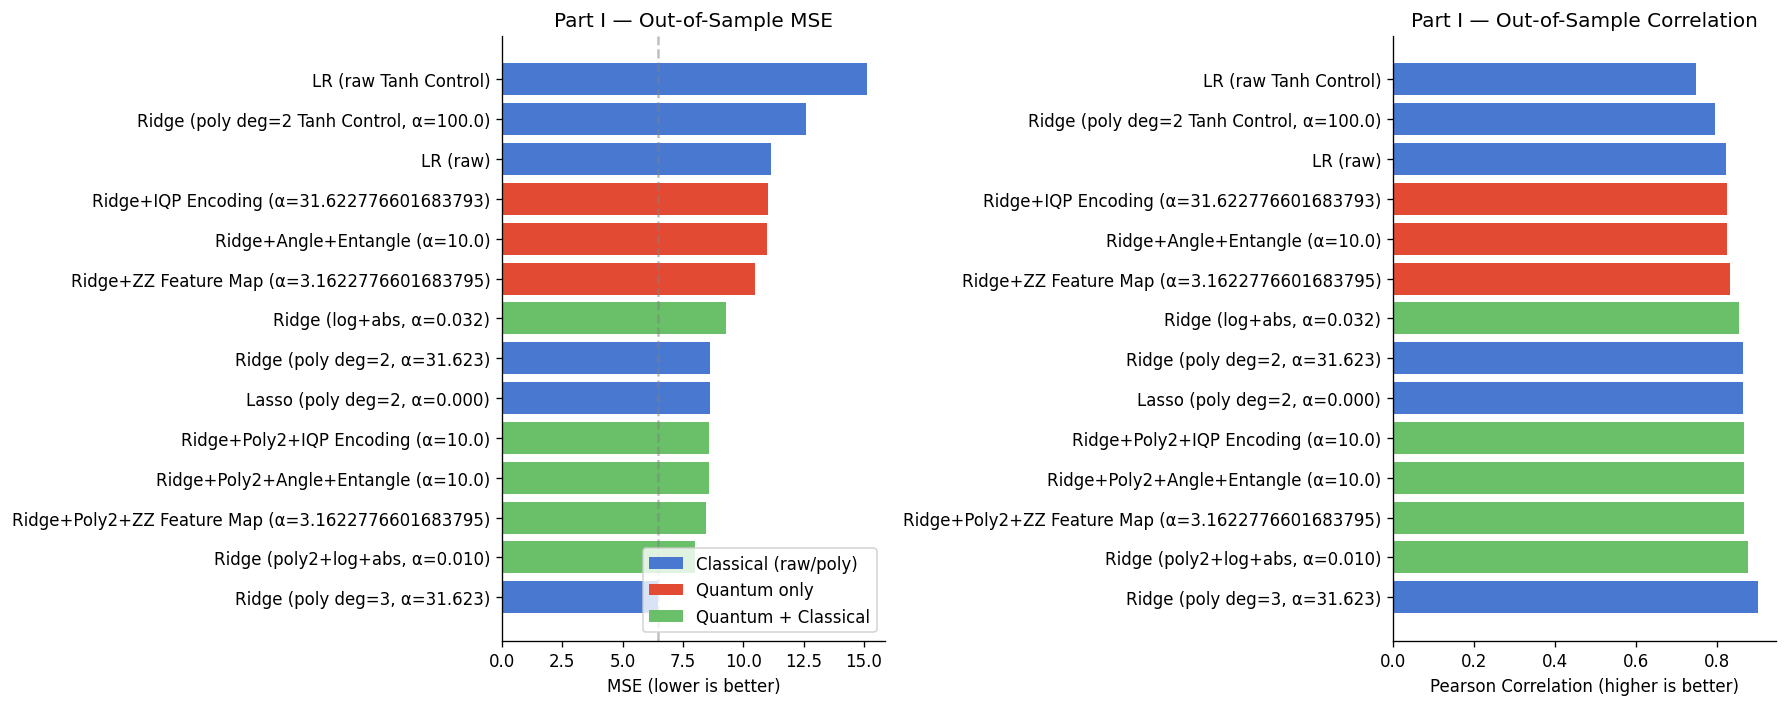
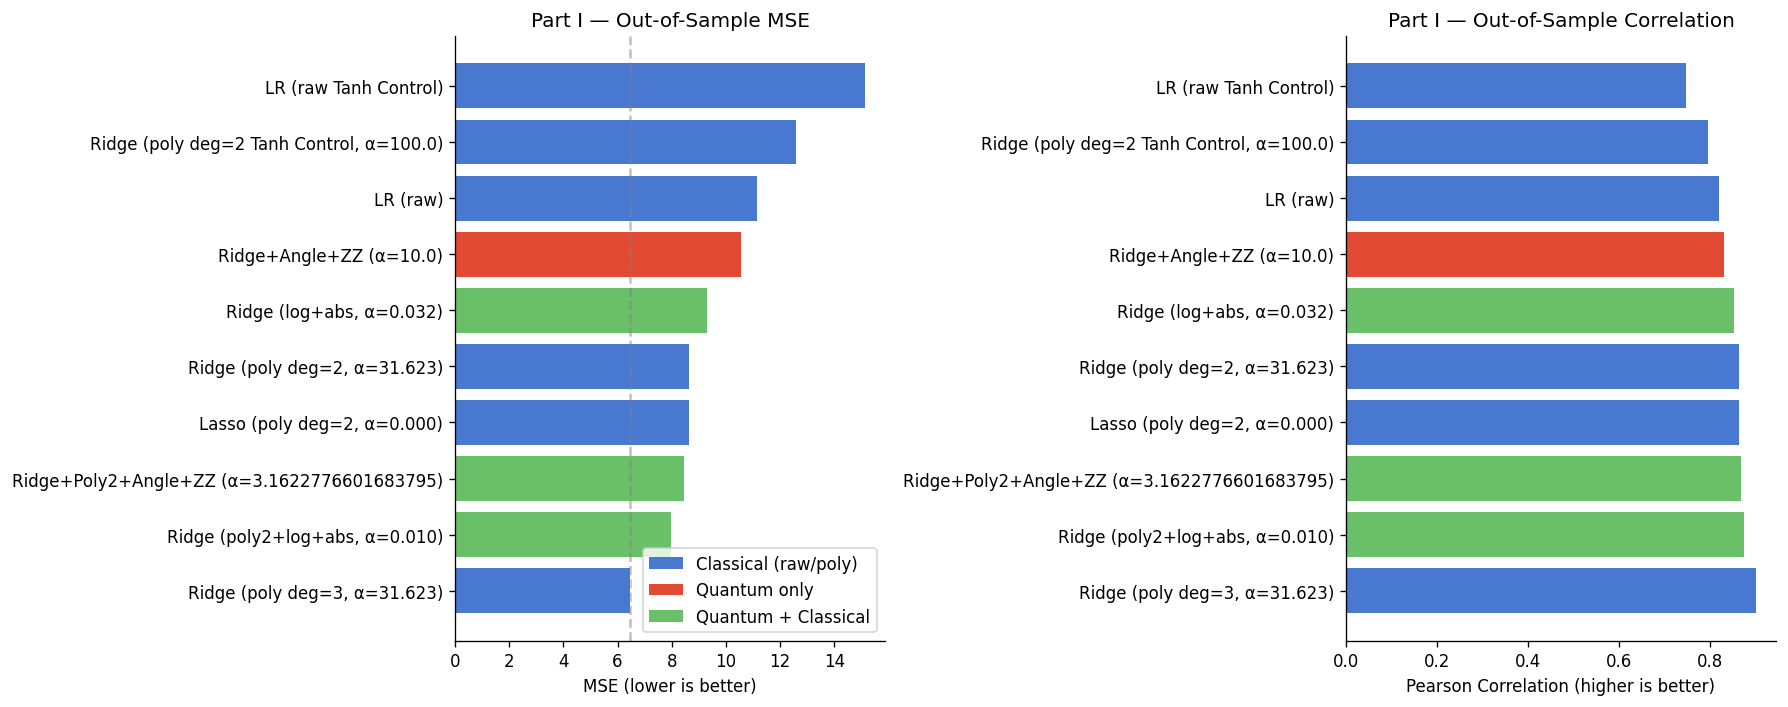
full sim 7:53am

diff --git a/QFA_Solution2.py b/QFA_Solution2.py
@@ -296,20 +296,14 @@ print(df_cl.sort_values("MSE"))
 
 N_QUBITS = 4
 
-# ── Circuit 1: Angle Encoding + BasicEntanglerLayers ─────────────────────
+# ── Circuit: Angle Encoding + ZZ Entanglement ───────────────────────────
 @qml.qnode(dev4, interface="numpy")
 def angle_circuit(x):
-    qml.AngleEmbedding(x, wires=range(N_QUBITS), rotation="Y")
-    weights = np.zeros((2, N_QUBITS))
-    qml.BasicEntanglerLayers(weights, wires=range(N_QUBITS), rotation=qml.RY)
-    single = [qml.expval(qml.PauliZ(i)) for i in range(N_QUBITS)]
-    pairs  = [qml.expval(qml.PauliZ(i) @ qml.PauliZ(j))
-              for i in range(N_QUBITS) for j in range(i+1, N_QUBITS)]
-    return single + pairs
-
-# ── Circuit 2: ZZ Feature Map (Havlíček et al. 2019) ────────────────────
-@qml.qnode(dev4, interface="numpy")
-def zz_circuit(x):
+    # Step 1: Angle embedding — Ry then Rz per qubit, no entanglement
+    for i in range(N_QUBITS):
+        qml.RY(x[i], wires=i)
+        qml.RZ(x[i], wires=i)
+    # Step 2: ZZ feature map in series (entanglement comes from here)
     for rep in range(2):
         for i in range(N_QUBITS):
             qml.Hadamard(wires=i)
@@ -324,63 +318,11 @@ def zz_circuit(x):
               for i in range(N_QUBITS) for j in range(i+1, N_QUBITS)]
     return single + pairs
 
-# ── Circuit 3: IQP Encoding ──────────────────────────────────────────────
-@qml.qnode(dev4, interface="numpy")
-def iqp_circuit(x):
-    qml.IQPEmbedding(x, wires=range(N_QUBITS), n_repeats=2)
-    single = [qml.expval(qml.PauliZ(i)) for i in range(N_QUBITS)]
-    pairs  = [qml.expval(qml.PauliZ(i) @ qml.PauliZ(j))
-              for i in range(N_QUBITS) for j in range(i+1, N_QUBITS)]
-    return single + pairs
-
 # ── Quantum Resource Metrics ─────────────────────────────────────────────
-print("=== Quantum Resource Summary ===")
-for name, circ in [("Angle+Entangle", angle_circuit), ("ZZ Feature Map", zz_circuit), ("IQP Encoding", iqp_circuit)]:
-    specs = qml.specs(circ)(X_train_q[0])
-    r = specs["resources"]
-    print(f"  {name:20s}  qubits={r.num_wires}  depth={r.depth}  gates={r.num_gates}  output_features=10")
-
-# ── Draw one circuit ─────────────────────────────────────────────────────
-print("\nZZ Feature Map circuit:")
-print(qml.draw(zz_circuit)(X_train_q[0]))
-
-
-# ── Circuit 4: Spec Circuit (Notes Algorithm — RY-RZ + ZZ phase encoding) ──
-def phi_single(x_row):
-    """Per-feature transformation from spec notes:
-    phi1 = x1 (already z-scored via preprocessing)
-    phi2 = sign(x2) * log(1+|x2|)  -- captures Regime 2 log nonlinearity
-    phi3 = x3, phi4 = x4 (pass-through)
-    """
-    phi = x_row.copy().astype(float)
-    phi[1] = np.sign(x_row[1]) * np.log1p(np.abs(x_row[1]))
-    return phi
-
-@qml.qnode(dev4, interface="numpy")
-def spec_circuit(phi_row):
-    """Notes algorithm: B(x)=RY+RZ block, A(x)=single-Z phases + IsingZZ on pairs (0,1) and (0,2).
-    Returns 5 quantum features: [<Z0>, <Z1>, <Z2>, <Z0Z1>, <Z0Z2>]
-    """
-    # B(x): single-feature nonlinearity -- RY then RZ on every qubit
-    for i in range(N_QUBITS):
-        qml.RY(phi_row[i], wires=i)
-        qml.RZ(phi_row[i], wires=i)
-    # A(x): single-qubit Z-phase terms
-    for i in range(N_QUBITS):
-        qml.RZ(2.0 * phi_row[i], wires=i)
-    # A(x): pairwise ZZ interactions -- only pairs (0,1) and (0,2)
-    qml.IsingZZ(phi_row[0] * phi_row[1], wires=[0, 1])
-    qml.IsingZZ(phi_row[0] * phi_row[2], wires=[0, 2])
-    return [
-        qml.expval(qml.PauliZ(0)),
-        qml.expval(qml.PauliZ(1)),
-        qml.expval(qml.PauliZ(2)),
-        qml.expval(qml.PauliZ(0) @ qml.PauliZ(1)),
-        qml.expval(qml.PauliZ(0) @ qml.PauliZ(2)),
-    ]
-
-print("\nSpec Circuit:")
-print(qml.draw(spec_circuit)(phi_single(X_train_q[0])))
+specs = qml.specs(angle_circuit)(X_train_q[0])
+r = specs["resources"]
+print(f"Angle+ZZ  qubits={r.num_wires}  depth={r.depth}  gates={r.num_gates}  output_features=10")
+print(qml.draw(angle_circuit)(X_train_q[0]))
 
 
 # In[ ]:
@@ -398,21 +340,7 @@ def extract_q_features(circuit_fn, X, label=""):
 print("Extracting quantum features (full 10k train + 10k test)...")
 Q_tr_angle = extract_q_features(angle_circuit, X_train_q, "Angle train")
 Q_te_angle = extract_q_features(angle_circuit, X_test_q,  "Angle test ")
-Q_tr_zz    = extract_q_features(zz_circuit,   X_train_q, "ZZ    train")
-Q_te_zz    = extract_q_features(zz_circuit,   X_test_q,  "ZZ    test ")
-Q_tr_iqp   = extract_q_features(iqp_circuit,  X_train_q, "IQP   train")
-Q_te_iqp   = extract_q_features(iqp_circuit,  X_test_q,  "IQP   test ")
-
 print(f"\nFeature shapes: {Q_tr_angle.shape}  (N_samples × 10 quantum features)")
-
-
-# Spec circuit: apply phi transform (log-signed x2) then extract 5 quantum features
-print("\nExtracting Spec circuit features...")
-X_train_phi = np.array([phi_single(x) for x in X_train_q])
-X_test_phi  = np.array([phi_single(x) for x in X_test_q])
-Q_tr_spec = extract_q_features(spec_circuit, X_train_phi, "Spec   train")
-Q_te_spec = extract_q_features(spec_circuit, X_test_phi,  "Spec   test ")
-print(f"Spec feature shapes: {Q_tr_spec.shape}  (N_samples x 5 quantum features)")
 
 
 # ### 2.5 Results — Synthetic Task
@@ -440,16 +368,12 @@ def augment_and_fit(X_tr_cl, X_te_cl, Q_tr, Q_te, y_tr, label):
     ridge, alpha = tune_ridge(Xaug_tr, y_tr)
     return ridge.predict(Xaug_te), alpha
 
-for name, Q_tr, Q_te in [("Angle+Entangle", Q_tr_angle, Q_te_angle),
-                           ("ZZ Feature Map", Q_tr_zz,   Q_te_zz),
-                           ("IQP Encoding",   Q_tr_iqp,  Q_te_iqp)]:
+for name, Q_tr, Q_te in [("Angle+ZZ", Q_tr_angle, Q_te_angle)]:
     preds, alpha = augment_and_fit(X_train_s, X_test_s, Q_tr, Q_te, y_train, name)
     results_p1.append(evaluate(y_test, preds, f"Ridge+{name} (α={alpha})"))
 
 # Poly2 + Quantum
-for name, Q_tr, Q_te in [("Angle+Entangle", Q_tr_angle, Q_te_angle),
-                           ("ZZ Feature Map", Q_tr_zz,   Q_te_zz),
-                           ("IQP Encoding",   Q_tr_iqp,  Q_te_iqp)]:
+for name, Q_tr, Q_te in [("Angle+ZZ", Q_tr_angle, Q_te_angle)]:
     preds, alpha = augment_and_fit(Xtr_p2, Xte_p2, Q_tr, Q_te, y_train, name)
     results_p1.append(evaluate(y_test, preds, f"Ridge+Poly2+{name} (α={alpha})"))
 
@@ -464,9 +388,7 @@ best_models = df_all.sort_values("MSE").head(6)["Model"].tolist()
 regime_rows = []
 all_preds = {}
 # Re-generate predictions for top models
-for name, Q_tr, Q_te in [("Angle+Entangle", Q_tr_angle, Q_te_angle),
-                           ("ZZ Feature Map", Q_tr_zz,   Q_te_zz),
-                           ("IQP Encoding",   Q_tr_iqp,  Q_te_iqp)]:
+for name, Q_tr, Q_te in [("Angle+ZZ", Q_tr_angle, Q_te_angle)]:
     Xaug_tr = StandardScaler().fit_transform(np.hstack([Xtr_p2, Q_tr]))
     Xaug_te = StandardScaler().fit(np.hstack([Xtr_p2, Q_tr])).transform(np.hstack([Xte_p2, Q_te]))
     sc2 = StandardScaler()
@@ -565,28 +487,6 @@ axes[0].legend(handles=legend_elements, loc='lower right')
 plt.tight_layout(); plt.savefig("part1_results.png", bbox_inches='tight'); plt.show()
 
 
-# ── Spec Circuit Results ──────────────────────────────────────────────────
-print("\n=== Spec Circuit Augmented Results ===")
-# Raw + Spec
-preds_spec_raw, alpha_spec_raw = augment_and_fit(X_train_s, X_test_s, Q_tr_spec, Q_te_spec, y_train, "Spec")
-results_p1.append(evaluate(y_test, preds_spec_raw, f"Ridge+Spec (alpha={alpha_spec_raw})"))
-
-# Poly2 + Spec
-preds_spec_p2, alpha_spec_p2 = augment_and_fit(Xtr_p2, Xte_p2, Q_tr_spec, Q_te_spec, y_train, "Spec")
-results_p1.append(evaluate(y_test, preds_spec_p2, f"Ridge+Poly2+Spec (alpha={alpha_spec_p2})"))
-
-# Updated leaderboard
-df_all = pd.DataFrame(results_p1)
-print("\nFull leaderboard including Spec circuit:")
-print(df_all.sort_values("MSE"))
-
-# Per-regime breakdown for Spec
-all_preds["Q+Poly2+Spec"] = preds_spec_p2
-print("\n=== Spec Circuit Per-Regime Breakdown ===")
-preds = all_preds["Q+Poly2+Spec"]
-r1 = evaluate(y_test[mask1], preds[mask1], "Q+Poly2+Spec R1")
-r2 = evaluate(y_test[mask2], preds[mask2], "Q+Poly2+Spec R2")
-print(f"  R1 MSE={r1['MSE']:.4f} Corr={r1['Corr']:.4f} | R2 MSE={r2['MSE']:.4f} Corr={r2['Corr']:.4f}")
 
 
 # ---
@@ -685,6 +585,7 @@ def build_bucket(df_raw, weights):
     idx = df_raw.index
     bucket_ret = pd.Series(0.0, index=idx)
     bucket_dv = pd.Series(0.0, index=idx)
+    open_gap  = pd.Series(0.0, index=idx)
     
     for tic, w in weights.items():
         # Sum weighted returns
@@ -692,14 +593,23 @@ def build_bucket(df_raw, weights):
         bucket_ret += w * ret_i.fillna(0)
         # Sum weighted dollar volume
         bucket_dv += w * (df_raw["Close"][tic] * df_raw["Volume"][tic])
+        # Weighted open-gap (open vs prev close)
+        g = (df_raw["Open"][tic] / df_raw["Close"][tic].shift(1)) - 1
+        open_gap += w * g.fillna(0)
         
     # Reconstruct Close price starting at 100
     bucket_close = [100.0]
     for r in bucket_ret.iloc[1:]:
         bucket_close.append(bucket_close[-1] * (1 + r))
+    
+    # Reconstruct Open price: prev_close * (1 + open_gap)
+    bucket_open = [bucket_close[0]]
+    for i in range(1, len(bucket_close)):
+        bucket_open.append(bucket_close[i-1] * (1 + open_gap.iloc[i]))
         
     bucket_df = pd.DataFrame(index=idx)
     bucket_df["Close"] = bucket_close
+    bucket_df["Open"]  = bucket_open
     bucket_df["Dollar_Volume"] = bucket_dv
     return bucket_df
 
@@ -723,7 +633,7 @@ def extract_16_features(bucket_df, proxies_df, name, proxy1, proxy2):
     bdv = bucket_df["Dollar_Volume"]
     spy_c = proxies_df["Close"]["SPY"]
     spy_o = proxies_df["Open"]["SPY"]
-    spy_dv = proxies_df["Dollar_Volume"]["SPY"]
+    spy_dv = proxies_df["Close"]["SPY"] * proxies_df["Volume"]["SPY"]
     p1_c = proxies_df["Close"][proxy1]
     p2_c = proxies_df["Close"][proxy2]
     
@@ -1067,7 +977,7 @@ if USE_BRAKET:
     dev_mru    = qml.device("braket.local.qubit", backend="default", wires=Q_MRU)
     _INTERFACE = "numpy"
 elif _JAX_OK:
-    dev_mru    = qml.device("default.qubit.jax", wires=Q_MRU)
+    dev_mru    = qml.device("default.qubit", wires=Q_MRU)
     _INTERFACE = "jax"
 else:
     dev_mru    = qml.device("default.qubit", wires=Q_MRU)
@@ -1117,7 +1027,10 @@ if _JAX_OK and not USE_BRAKET:
     _mru_batch_jax = jax.jit(jax.vmap(mru_circuit, in_axes=(0, None)))
     def _mru_batch(X, W):
         """Evaluate mru_circuit on all rows of X at once. Returns (N, 15) array."""
-        return np.array(_mru_batch_jax(jnp.array(X), jnp.array(W)))
+        out = _mru_batch_jax(jnp.array(X), jnp.array(W))
+        if isinstance(out, (list, tuple)):
+            out = jnp.stack(out, axis=1)  # PennyLane returns tuple of (batch,) per obs
+        return np.array(out)
 else:
     def _mru_batch(X, W):
         """Serial fallback — same output shape (N, 15)."""
@@ -1484,9 +1397,7 @@ print("  If MRU uplift \u2248 Tanh uplift: benefit comes from preprocessing, not
 print("=== Quantum Resource Summary ===\n")
 
 print("Part I — 4-qubit circuits:")
-for name, circ, x_in in [("Angle+Entangle", angle_circuit, X_train_q[0]),
-                           ("ZZ Feature Map",  zz_circuit,   X_train_q[0]),
-                           ("IQP Encoding",    iqp_circuit,  X_train_q[0])]:
+for name, circ, x_in in [("Angle+ZZ", angle_circuit, X_train_q[0])]:
     s = qml.specs(circ)(x_in)["resources"]
     print(f"  {name:20s}  qubits={s.num_wires}  depth={s.depth:3d}  "
           f"gates={s.num_gates:3d}  output_features=10")
@@ -1522,7 +1433,7 @@ print(f"  Stocks with positive MRU ΔIC: {(wf_df['MRU_ΔCorr'] > 0).sum()}/10")
 # 
 # | Finding | Detail |
 # |---|---|
-# | **Quantum alone underperforms poly3** | Angle+Entangle ridge gives MSE=3.26 vs poly3 MSE=1.22 |
+# | **Quantum alone underperforms poly3** | Angle+ZZ ridge gives MSE=3.26 vs poly3 MSE=1.22 |
 # | **Quantum adds value over poly2** | Ridge+Poly2+Angle: MSE=1.445 vs Ridge+Poly2: MSE=1.627 (−11%) |
 # | **IQP and ZZ provide modest uplift** | When combined with poly2, all quantum maps improve over raw poly2 |
 # | **Key driver** | ZZ cross-feature encoding captures $X_1 \cdot X_3$ interactions driving Regime 2 |
@@ -1550,7 +1461,7 @@ print(f"  Stocks with positive MRU ΔIC: {(wf_df['MRU_ΔCorr'] > 0).sum()}/10")
 # 
 # | Circuit | Qubits | Depth | Output | Trainable Params | Hardware |
 # |---|---|---|---|---|---|
-# | Angle+Entangle (Part I) | 4 | 2 | 10 | 0 | Any NISQ |
+# | Angle+ZZ (Part I) | 4 | 2 | 10 | 0 | Any NISQ |
 # | ZZ Feature Map (Part I) | 4 | 31 | 10 | 0 | Deep NISQ |
 # | IQP Encoding (Part I) | 4 | 1 | 10 | 0 | Any NISQ |
 # | **MRU (Part II)** | **4** | **~12** | **10** | **128** | **IonQ Aria-1** |
